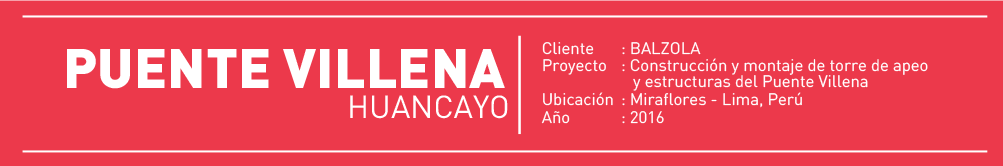
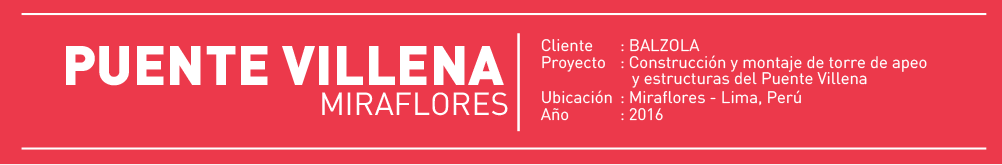
ajustes mobile 11

diff --git a/vial.html b/vial.html
@@ -162,7 +162,7 @@
                                     <div class="text align-self-center d-flex" style="line-height: normal;">
                                         <div style="border-bottom: 2px solid; font-size: 2rem;">
                                             <span >PUENTE VILLENA</span><br>
-                                            <span style="font-size: 1.5rem;">HUANCAYO</span>
+                                            <span style="font-size: 1.5rem;">MIRAFLORES</span>
                                         </div>
                                         <span style="font-size: 1.5rem;">vial</span>
                                     </div>
@@ -170,7 +170,7 @@
                             </a>
                         </div>
                         <div class="row" style="margin-left: 0;margin-top: 3%;">
-                            <span>PUENTE VILLENA HUANCAYO</span><br>
+                            <span>PUENTE VILLENA MIRAFLORES</span><br>
                         </div>
                     </div>
 
